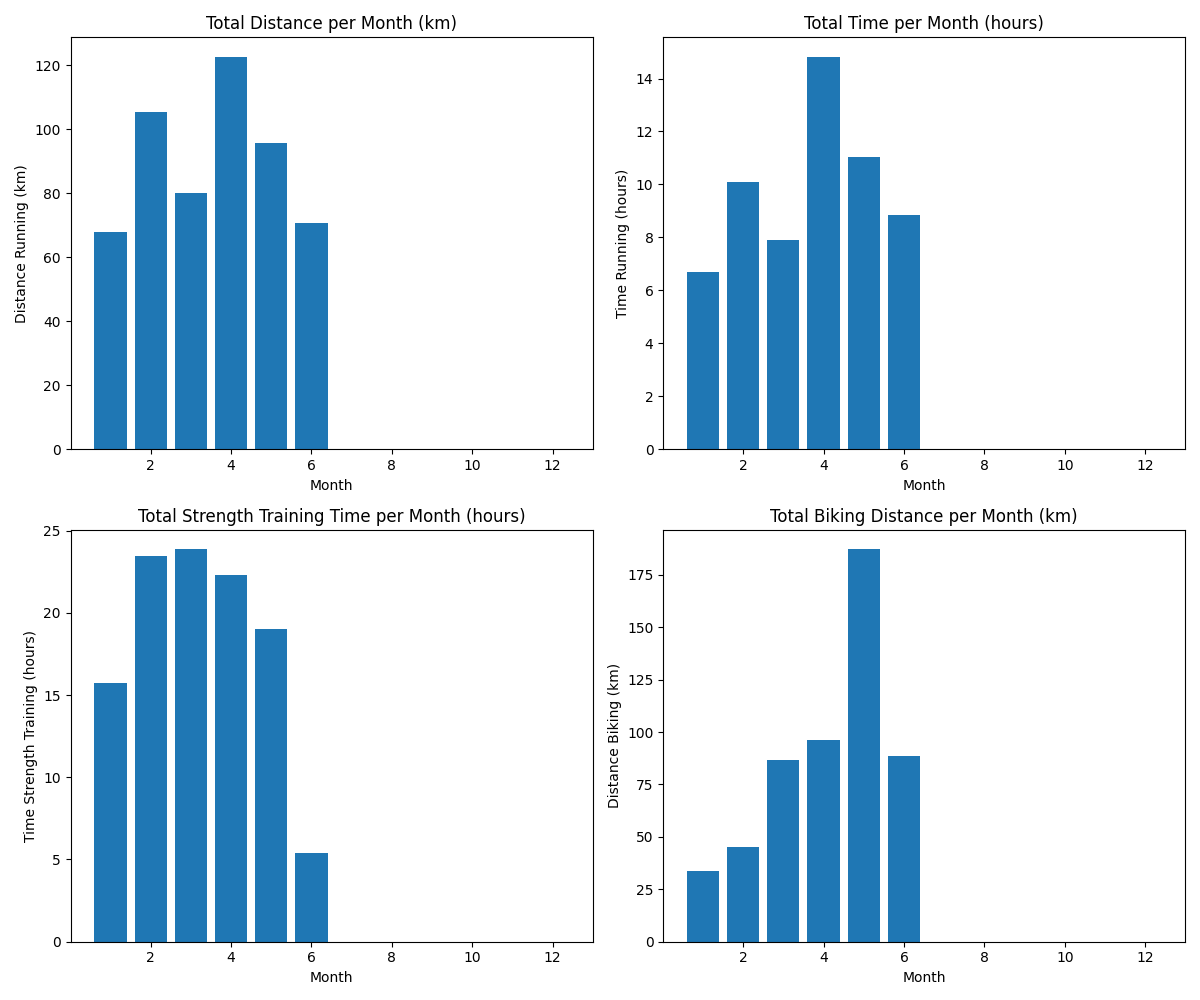
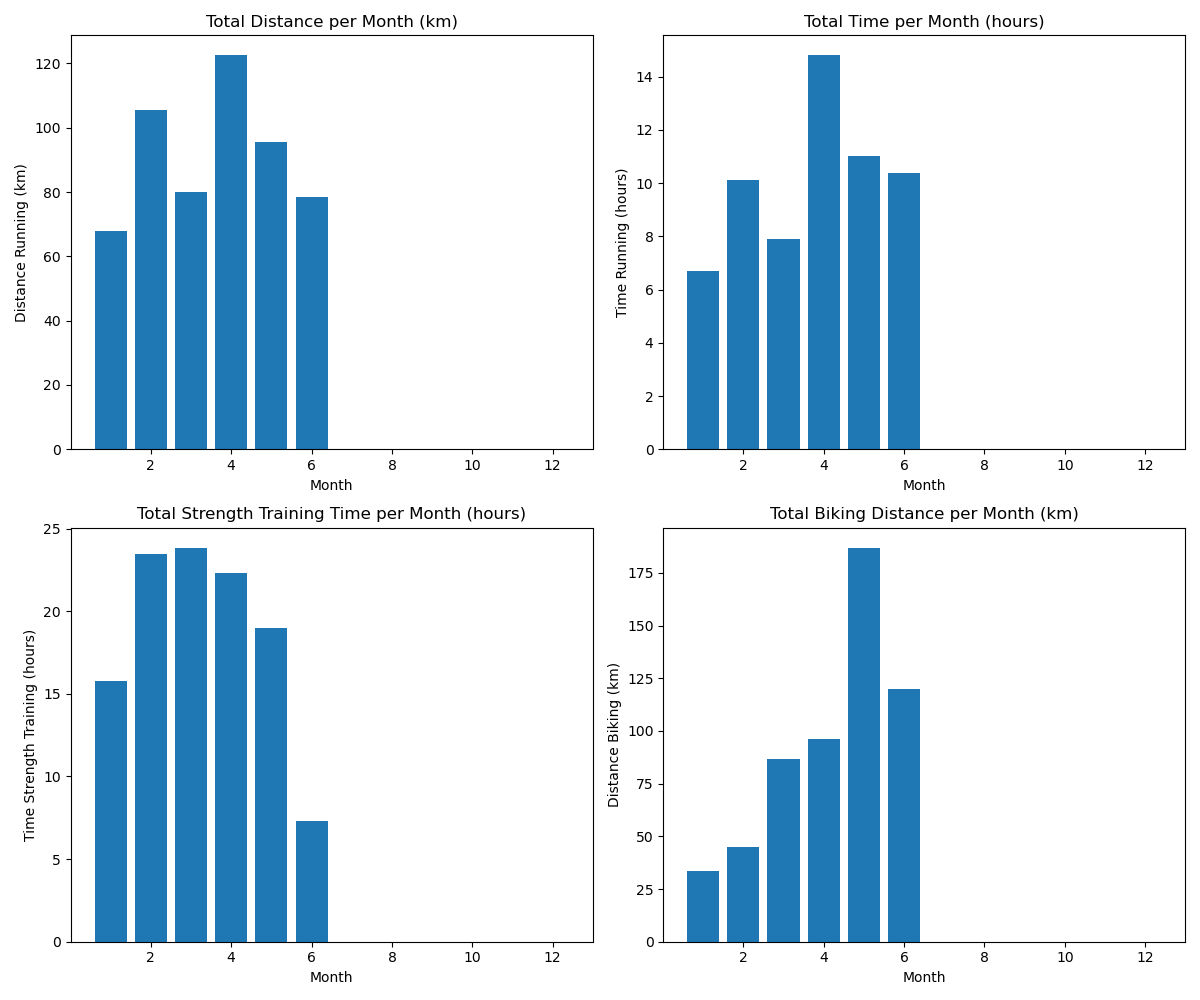
sport update 22.06

diff --git a/Sport/Sport_2026_report.md b/Sport/Sport_2026_report.md
@@ -3,24 +3,24 @@
 ## Sport Counts
 | type   |   count |
 |:-------|--------:|
-| F      |     125 |
-| S      |       7 |
+| F      |     127 |
+| S      |       8 |
 | K      |       5 |
+| B      |       4 |
 | L      |       3 |
-| B      |       3 |
-| Total  |     143 |
+| Total  |     147 |
 
 ## Summary
-- **Total distance run on treadmill:** 457.51 km
+- **Total distance run on treadmill:** 462.51 km
 - **Total distance run outside:** 21.09 km
-- **Total distance cycled:** 537.05 km
-- **Total distance swimming:** 17.25 km
+- **Total distance cycled:** 568.15 km
+- **Total distance swimming:** 20.00 km
 - **Total distance skating:** 46.71 km
-- **Total time spent on strength training:** 109h 44min
+- **Total time spent on strength training:** 111h 39min
 
 ## Average Speeds
-- **Treadmill running:** 9.99 km/h
+- **Treadmill running:** 9.98 km/h
 - **Outside running:** 10.83 km/h
-- **Cycling:** 21.76 km/h
-- **Swimming:** 2.55 km/h
+- **Cycling:** 21.63 km/h
+- **Swimming:** 2.57 km/h
 - **Inline skating:** 9.25 km/h
